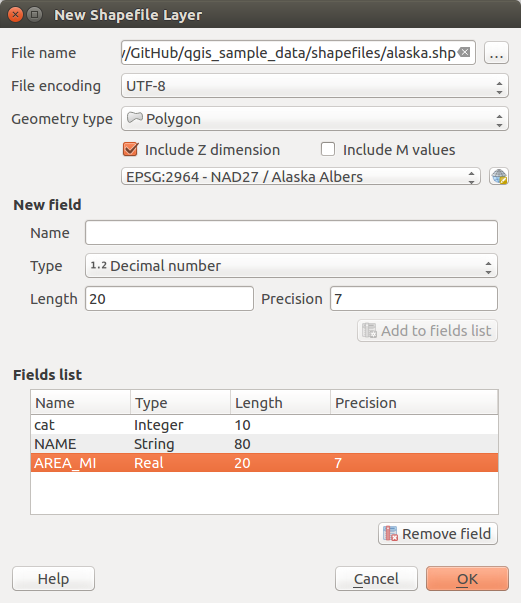
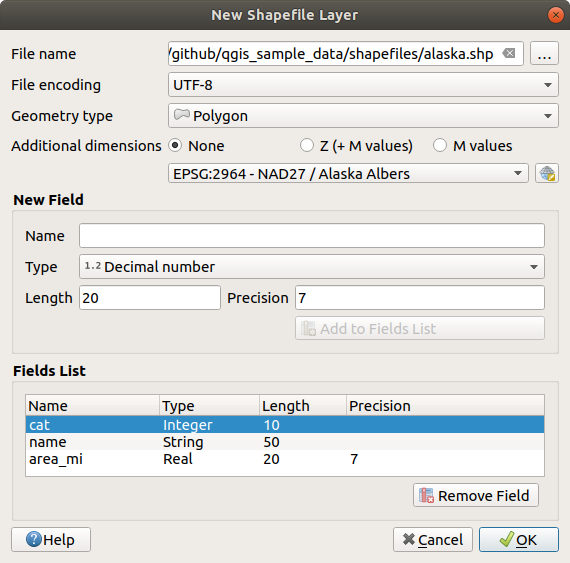
Harmonize layer creation description
Using the same schema for the introduction part and,
formalizing the description into numbered list since these are steps.
Also add more explanation.
Screenshots updated with same environment.

diff --git a/source/docs/user_manual/managing_data_source/create_layers.rst b/source/docs/user_manual/managing_data_source/create_layers.rst
@@ -32,11 +32,10 @@ QGIS also provides tools to import/export different formats.
 Creating new vector layers
 ==========================
 
-QGIS allows you to create new Shapefile layers, new SpatiaLite layers, new
-GPX layers and new Temporary Scratch layers. Creation of a new GRASS layer
-is supported within the GRASS plugin.
-(Please refer to section :ref:`creating_new_grass_vectors` for more information
-on creating GRASS vector layers.)
+QGIS allows you to create new layers in different formats. It provides tools
+for creation from scratch for GeoPackage, Shapefile, SpatiaLite, GPX and
+Temporary Scratch layers (aka memory layers) formats. Creation of a :ref:`new
+GRASS layer <creating_new_grass_vectors>` is supported within the GRASS plugin.
 
 
 .. index:: New GeoPackage layer
@@ -45,10 +44,11 @@ on creating GRASS vector layers.)
 Creating a new GeoPackage layer
 -------------------------------
 
-To create a new GeoPackage layer go to :menuselection:`Layer --> New -->`
-|newGeoPackageLayer| :menuselection:`New GeoPackage Layer...`.
-The :guilabel:`New GeoPackage Layer` dialog will
-be displayed as shown in figure_create_geopackage_.
+To create a new GeoPackage layer, press the |newGeoPackageLayer|
+:menuselection:`New GeoPackage Layer...` button from the :menuselection:`Layer
+--> Create Layer -->` menu or from the :guilabel:`Data Source Manager` toolbar.
+The :guilabel:`New GeoPackage Layer` dialog will be displayed as shown in
+figure_create_geopackage_.
 
 .. _figure_create_geopackage:
 
@@ -57,17 +57,42 @@ be displayed as shown in figure_create_geopackage_.
 
    Creating a New GeoPackage layer dialog
 
-The first step is to select an existing GeoPackage or create a new one. This
-can be done by pressing the ellipses :guilabel:`...` button at the right of the
-Database field. Then, give a name for the new layer, define the layer type and
-specify the coordinate reference system with :guilabel:`Specify CRS`.
+#. The first step is to indicate the database file location. This can be done
+   by pressing the :guilabel:`...` button at the right of the
+   :guilabel:`Database` field and select an existing GeoPackage file
+   or create a new one. QGIS will automatically add the right extension to
+   the name you provide
+#. Then, give a name for the new layer to store
+#. Define the :guilabel:`Geometry type`. If not a geometryless layer, you
+   can add whether it should :guilabel:`Include Z dimension` and/or
+   :guilabel:`Include M values`
+#. Specify the coordinate reference system using the |setProjection| button.
 
-To define an attribute table for the new GeoPackage layer, add the names of
-the attribute columns you want to create with the corresponding column type, 
-and click on the :guilabel:`Add to Fields List` button. Once you are happy with the
-attributes, click :guilabel:`OK`. QGIS will automatically add the new layer to the
-legend, and you can edit it in the same way as described in section
-:ref:`sec_edit_existing_layer`.
+To add fields to the layer you are creating:
+
+#. Enter the :guilabel:`Name` of the field
+#. Select the data :guilabel:`Type`. Supported types are :guilabel:`Text data`,
+   :guilabel:`Whole number` (both integer and integer64), :guilabel:`Decimal
+   number`, :guilabel:`Date` and :guilabel:`Date and time`, :guilabel:`Blob`
+   and :guilabel:`Boolean`
+#. Depending on the selected data format, enter the :guilabel:`Maximum length`
+   of values
+#. Click on the |newAttribute| :guilabel:`Add to Fields List` button.
+#. And reproduce the steps above for each field you need to add.
+#. Once you are happy with the attributes, click :guilabel:`OK`.
+   QGIS will automatically add the new layer to the legend, and you can edit it
+   in the same way as described in section :ref:`sec_edit_existing_layer`.
+
+By default, When creating a GeoPackage layer, QGIS generates a :guilabel:`Feature
+id column` called ``fid`` which behaves like the primary key of the layer. The
+name can be changed. Likewise, the geometry field, if availabe, is named ``geometry``
+and you can enable to :guilabel:`Create a spatial index` on it.
+These options can be found under the :guilabel:`Advanced Options` next to the
+:guilabel:`Layer identifier`, short human readable name of the layer, and the
+:guilabel:`Layer description`.
+
+Further management of GeoPackage layers can be done with the :ref:`DB Manager
+<dbmanager>`.
 
 
 .. _vector_create_shapefile:
@@ -75,15 +100,20 @@ legend, and you can edit it in the same way as described in section
 Creating a new Shapefile layer
 ------------------------------
 
-To create a new Shapefile layer, choose :menuselection:`Create Layer -->`
-|newVectorLayer| :menuselection:`New Shapefile Layer...` from the
-:menuselection:`Layer` menu or select it from the :guilabel:`Data Source Manager`
-toolbar. The :guilabel:`New Shapefile Layer` dialog will be
-displayed as shown in figure_create_shapefile_. 
-The first step is to provide a path and name for the Shapefile. QGIS will
-automatically add the :file:`.shp` extension to the name you specify
-Next, choose the type of layer (point, line or polygon) and optional Z or M 
-dimensions, as well as the CRS (coordinate reference system).
+To create a new Shapefile layer, press the |newVectorLayer| :menuselection:`New
+Shapefile Layer...` button from the :menuselection:`Layer --> Create Layer -->`
+menu or from the :guilabel:`Data Source Manager` toolbar.
+The :guilabel:`New Shapefile Layer` dialog will be displayed as shown in
+figure_create_shapefile_.
+
+#. The first step is to provide a path and name for the layer using the
+   :guilabel:`...` button next to :guilabel:`File name`. QGIS will
+   automatically add the right extension to the name you provide
+#. Next, indicate the :guilabel:`File encoding` of the data
+#. Choose the :guilabel:`Geometry type` of layer (point, multipoint,line or polygon)
+#. Check whether the geometry has an optional :guilabel:`Z (+ M values)` or
+   :guilabel:`M values`
+#. Specify the coordinate reference system using the |setProjection| button.
 
 .. _figure_create_shapefile:
 
@@ -92,18 +122,22 @@ dimensions, as well as the CRS (coordinate reference system).
 
    Creating a new Shapefile layer dialog
 
-To complete the creation of the new Shapefile layer, add the desired attributes
-by specifying a name and type for each attribute and clicking on the 
-:guilabel:`Add to Fields List` button. 
-A first 'id' column is added by default but can be
-removed, if not wanted. Only :guilabel:`Decimal number` |selectString|,
-:guilabel:`Whole number` |selectString|, :guilabel:`Text data`
-|selectString| and :guilabel:`Date` |selectString| attributes are
-supported. Additionally, depending on the attribute type, you can also define
-the length and precision of the new attribute column. Once you are happy with the
-attributes, click :guilabel:`OK`. 
-Once the Shapefile has been created, it will be added to the map as a new layer,
-and you can edit it in the same way as described in section :ref:`sec_edit_existing_layer`.
+To add fields to the layer you are creating:
+
+#. Enter the :guilabel:`Name` of the field
+#. Select the data :guilabel:`Type`. Only :guilabel:`Decimal number`,
+   :guilabel:`Whole number`, :guilabel:`Text data` and :guilabel:`Date` formats
+   attributes are supported
+#. Depending on the selected data format, enter the :guilabel:`Length` and
+   :guilabel:`Precision`.
+#. Click on the |newAttribute| :guilabel:`Add to Fields List` button.
+#. And reproduce the steps above for each field you need to add.
+#. Once you are happy with the attributes, click :guilabel:`OK`.
+   QGIS will automatically add the new layer to the legend, and you can edit it
+   in the same way as described in section :ref:`sec_edit_existing_layer`.
+
+By default, A first integer ``id`` column is added but can be removed, if not
+desired.
 
 
 .. index:: New SpatiaLite layer
@@ -112,10 +146,9 @@ and you can edit it in the same way as described in section :ref:`sec_edit_exist
 Creating a new SpatiaLite layer
 -------------------------------
 
-To create a new SpatiaLite layer for editing, choose :menuselection:`Create Layer
--->` |newSpatiaLiteLayer| :menuselection:`New SpatiaLite Layer...` from the
-:menuselection:`Layer` menu or select it from the :guilabel:`Data Source Manager`
-toolbar.
+To create a new SpatiaLite layer, press the |newSpatiaLiteLayer|
+:menuselection:`New SpatiaLite Layer...` button from the :menuselection:`Layer
+--> Create Layer -->` menu or from the :guilabel:`Data Source Manager` toolbar.
 The :guilabel:`New SpatiaLite Layer` dialog will be displayed as shown in
 Figure_create_spatialite_.
 
@@ -126,21 +159,34 @@ Figure_create_spatialite_.
 
    Creating a New SpatiaLite layer dialog
 
-The first step is to select an existing SpatiaLite database or to create a new
-SpatiaLite database. This can be done with the :guilabel:`...` button at
-the right of the database field. Then, add a name for the new layer, define
-the layer type, and specify the coordinate reference system with :guilabel:`Specify CRS`.
-If desired, you can select |checkbox| :guilabel:`Create an autoincrementing primary key`.
+#. The first step is to indicate the database file location. This can be done
+   by pressing the :guilabel:`...` button at the right of the
+   :guilabel:`Database` field and select an existing SpatiaLite file
+   or create a new one. QGIS will automatically add the right extension to
+   the name you provide
+#. Then, give a name for the new layer to store
+#. Define the :guilabel:`Geometry type`. If not a geometryless layer, you
+   can add whether it should :guilabel:`Include Z dimension` and/or
+   :guilabel:`Include M values`
+#. Specify the coordinate reference system using the |setProjection| button.
 
-To define an attribute table for the new SpatiaLite layer, add the names of
-the attribute columns you want to create with the corresponding column type, and
-click on the :guilabel:`Add to Fields List` button. Once you are happy with the
-attributes, click :guilabel:`OK`. QGIS will automatically add the new layer to the
-legend, and you can edit it in the same way as described in section
-:ref:`sec_edit_existing_layer`.
+To add fields to the layer you are creating:
 
-Further management of SpatiaLite layers can be done with the DB Manager. See
-:ref:`dbmanager`.
+#. Enter the :guilabel:`Name` of the field
+#. Select the data :guilabel:`Type`. Supported types are :guilabel:`Text data`,
+   :guilabel:`Whole number` and :guilabel:`Decimal number`
+#. Click on the |newAttribute| :guilabel:`Add to Fields List` button.
+#. And reproduce the steps above for each field you need to add.
+#. Once you are happy with the attributes, click :guilabel:`OK`.
+   QGIS will automatically add the new layer to the legend, and you can edit it
+   in the same way as described in section :ref:`sec_edit_existing_layer`.
+
+If desired, you can select |checkbox| :guilabel:`Create an autoincrementing
+primary key` under the guilabel:`Advanced Options` section. You can also rename
+the :guilabel:`Geometry column` which is ``geometry`` by default.
+
+Further management of SpatiaLite layers can be done with the :ref:`DB Manager
+<dbmanager>`.
 
 
 .. index:: New GPX layer
@@ -171,17 +217,23 @@ Creating a new Temporary Scratch Layer
 Temporary Scratch Layers are in-memory layers, meaning that they are not saved
 on disk and will be discarded when QGIS is closed. They can be handy to store
 features you temporarily need or as intermediate layers during geoprocessing
-operations. 
+operations.
 
-Empty, editable temporary scratch layers can be defined using :menuselection:`Layer
---> Create Layer -->` |createMemory| :menuselection:`New Temporary Scratch Layer`
-or |createMemory| :sup:`New temporary scratch layer` button from the :guilabel:`Data
-Source Manager Toolbar`. Here you can create a:
+To create a new Temporary Scratch layer, press the |createMemory|
+:menuselection:`New Temporary Scratch Layer...` button from the
+:menuselection:`Layer --> Create Layer -->` menu or from the :guilabel:`Data
+Source Manager` toolbar.
+The :guilabel:`New Temporary Scratch Layer` dialog will be displayed as shown in
+figure_create_temporary_. Then:
 
-* ``No geometry`` type layer, served as simple table,
-* ``Point`` or ``MultiPoint`` layer,
-* ``LineString/CompoundCurve`` or ``MultiLineString/MultiCurve`` layer,
-* ``Polygon/CurvePolygon`` or ``MultiPolygon/MultiSurface`` layer.
+#. Indicate the :guilabel:`Layer name`
+#. Select the :guilabel:`Geometry type`. Here you can create a:
+
+   * ``No geometry`` type layer, served as simple table,
+   * ``Point`` or ``MultiPoint`` layer,
+   * ``LineString/CompoundCurve`` or ``MultiLineString/MultiCurve`` layer,
+   * ``Polygon/CurvePolygon`` or ``MultiPolygon/MultiSurface`` layer.
+#. Specify the coordinate reference system using the |setProjection| button.
 
 .. _figure_create_temporary:
 
@@ -190,8 +242,10 @@ Source Manager Toolbar`. Here you can create a:
 
    Creating a new Temporary Scratch layer dialog
 
-By default, a new temporary scratch layer is created without any attribute. But
-you can also create prepopulated temporary scratch layers using e.g. the
+By default, a new temporary scratch layer is created without any attributes. You
+can later add them using the |newAttribute| :sup:`New Field` button from the
+layer's attribute table or :guilabel:`Source Fields` tab of its properties dialog.
+But you can also create prepopulated temporary scratch layers using e.g. the
 clipboard (see :ref:`paste_into_layer`) or as a result of a :ref:`Processing
 algorithm <processing_algs>`.
 
@@ -653,14 +707,16 @@ used in conjunction with this spatial index syntax.
    :width: 1.5em
 .. |indicatorMemory| image:: /static/common/mIndicatorMemory.png
    :width: 1.5em
+.. |newAttribute| image:: /static/common/mActionNewAttribute.png
+   :width: 1.5em
 .. |newGeoPackageLayer| image:: /static/common/mActionNewGeoPackageLayer.png
    :width: 1.5em
 .. |newSpatiaLiteLayer| image:: /static/common/mActionNewSpatiaLiteLayer.png
    :width: 1.5em
 .. |newVectorLayer| image:: /static/common/mActionNewVectorLayer.png
    :width: 1.5em
-.. |selectString| image:: /static/common/selectstring.png
-   :width: 2.5em
+.. |setProjection| image:: /static/common/mActionSetProjection.png
+   :width: 1.5em
 .. |showPluginManager| image:: /static/common/mActionShowPluginManager.png
    :width: 1.5em
 .. |unchecked| image:: /static/common/checkbox_unchecked.png
